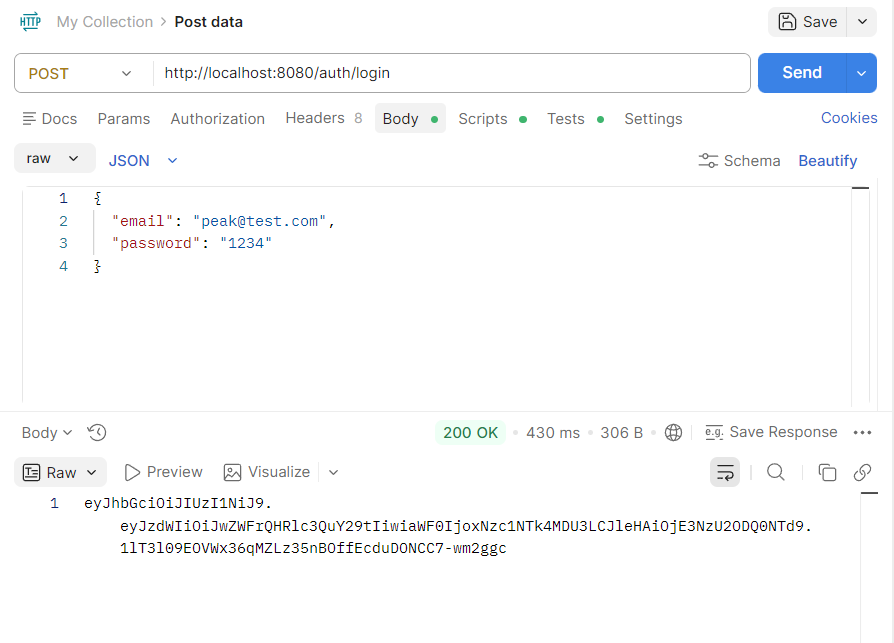
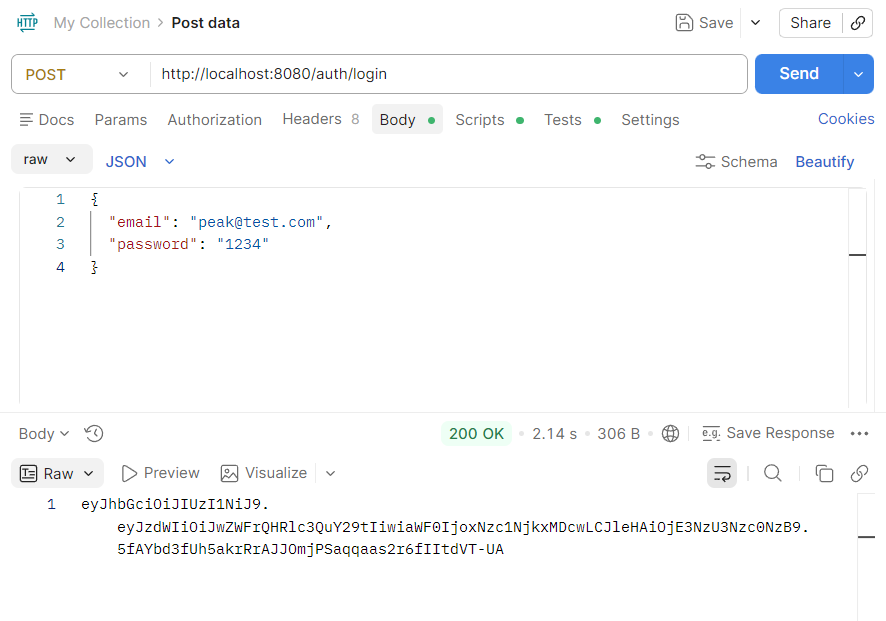
feat: protect API

diff --git a/src/main/java/com/marketplace/backend/config/FilterConfig.java b/src/main/java/com/marketplace/backend/config/FilterConfig.java
@@ -1,0 +1,22 @@
+package com.marketplace.backend.config;
+
+import org.springframework.beans.factory.annotation.Autowired;
+import org.springframework.context.annotation.Bean;
+import org.springframework.context.annotation.Configuration;
+import org.springframework.boot.web.servlet.FilterRegistrationBean;
+import com.marketplace.backend.security.JwtFilter;
+
+@Configuration
+public class FilterConfig {
+    @Autowired
+    private JwtFilter jwtFilter;
+
+    @Bean
+    public FilterRegistrationBean<JwtFilter> jwtFilterRegistration() {
+        FilterRegistrationBean<JwtFilter> registration = new FilterRegistrationBean<>();
+        registration.setFilter(jwtFilter);
+        registration.addUrlPatterns("/products", "/products/*");
+
+        return registration;
+    }
+}

diff --git a/README.md b/README.md
@@ -1,4 +1,4 @@
-# Marketplace Backend
+# Marketplace Order & Payment Engine
 
 Backend system for a marketplace application built with Spring Boot.
 
@@ -26,7 +26,6 @@ Backend system for a marketplace application built with Spring Boot.
 ## API Testing
 
 ### Create Product
-
 ![](src/main/resources/images/create-product.png)
 ![](src/main/resources/images/get-products.png)
 
@@ -36,6 +35,12 @@ Backend system for a marketplace application built with Spring Boot.
 
 ### Login (JWT)
 ![](src/main/resources/images/login-jwt.png)
+
+### Get Products
+#### Without Token (Unauthorized)
+![](src/main/resources/images/get-products(no token).png)
+#### With Token (Authorized)
+![](src/main/resources/images/get-products(token).png)
 
 ---
 
